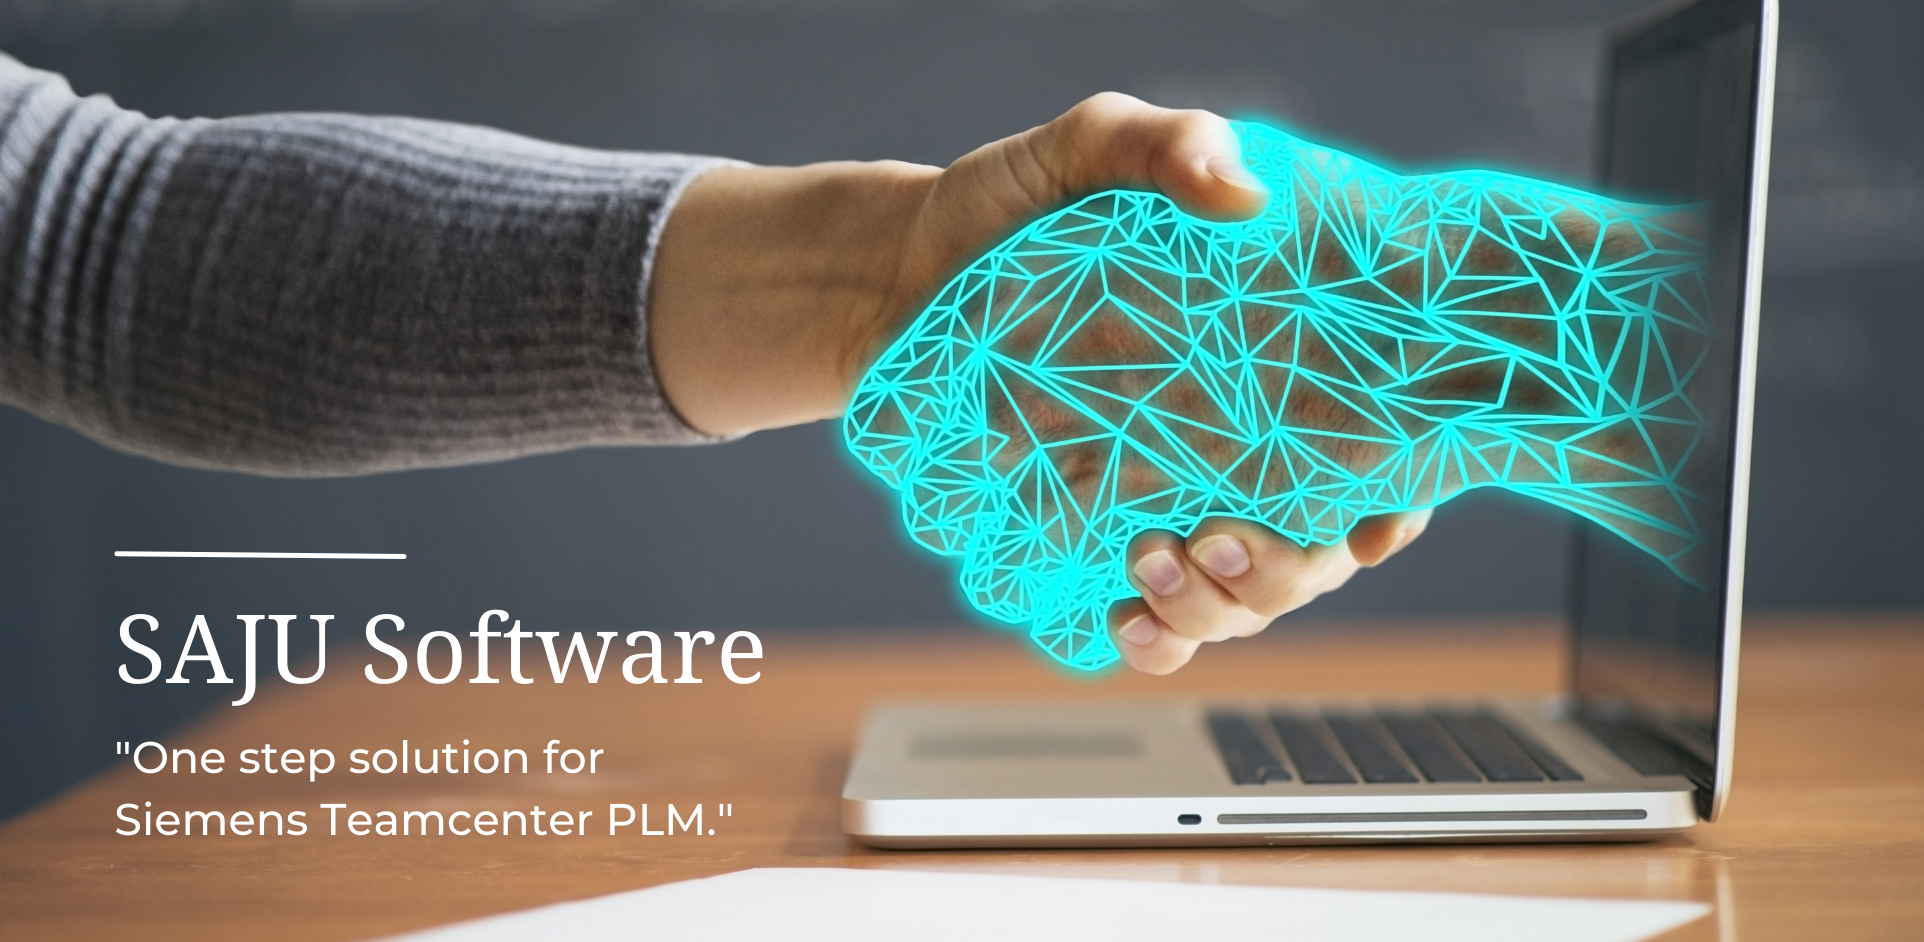
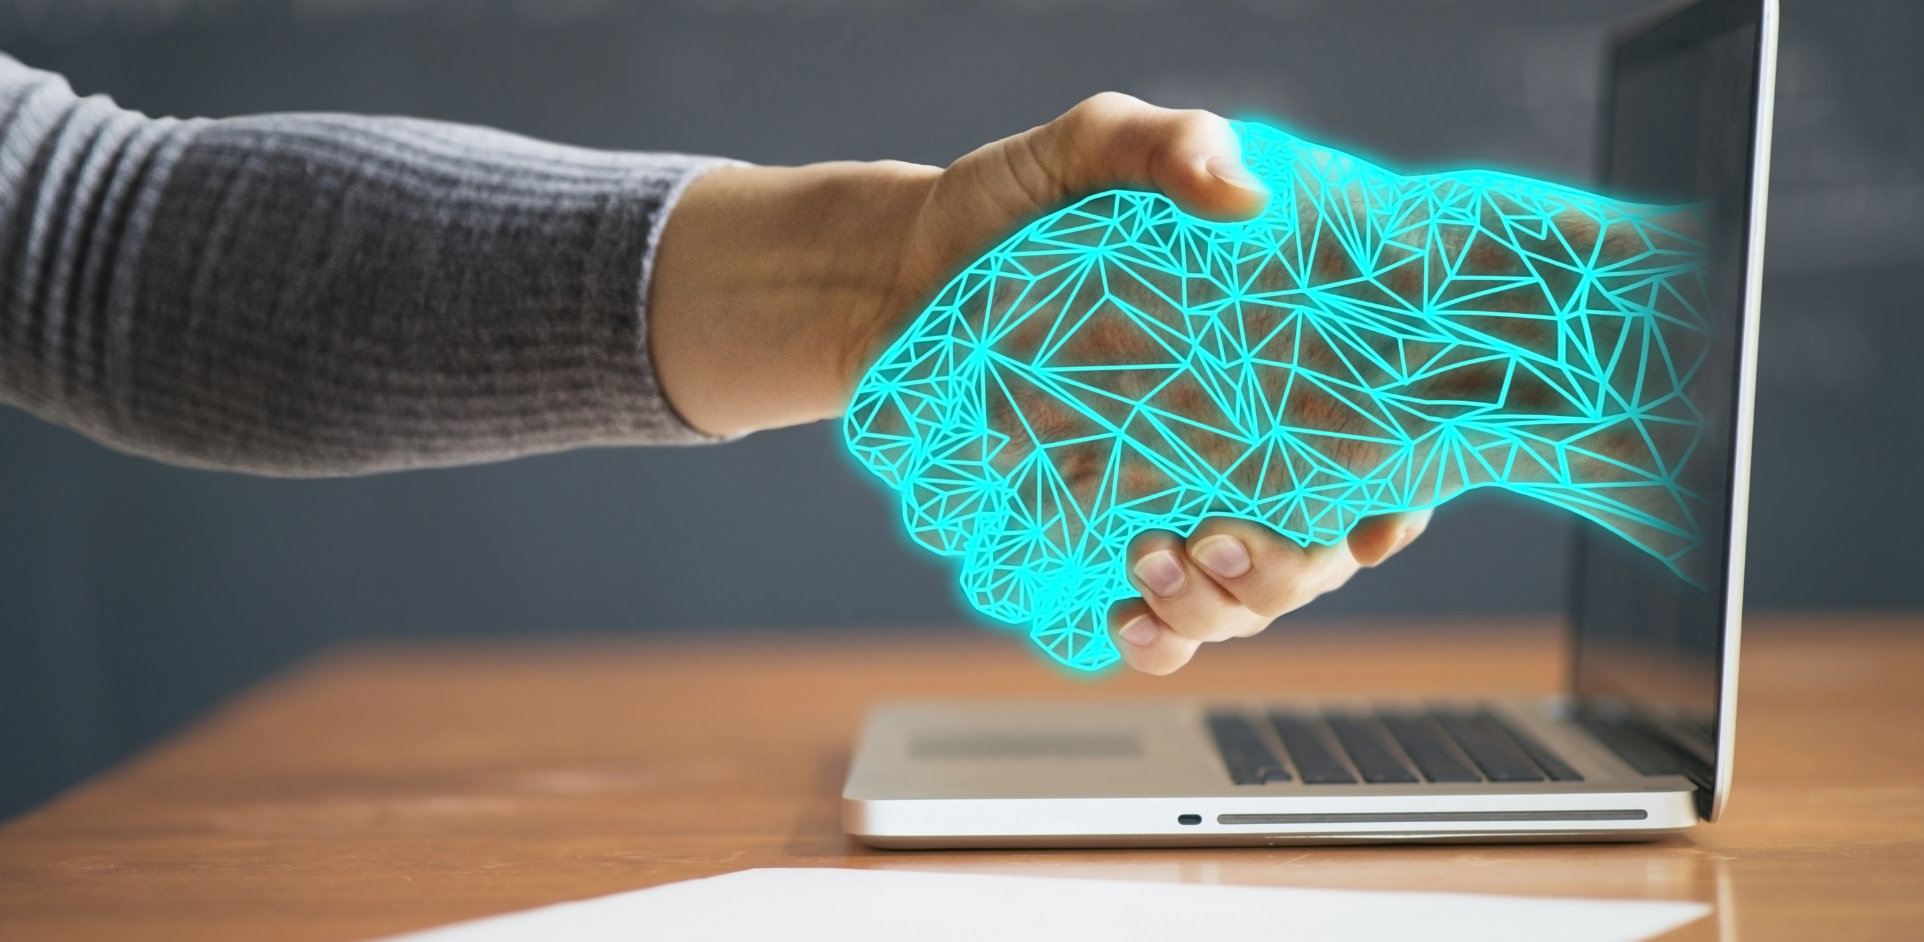
Localization POC
Localization POC + Changes in banner image

diff --git a/index.html b/index.html
@@ -32,10 +32,10 @@
 		<header class="header fixed clearfix navbar navbar-fixed-top">
 			<div class="container">
 				<div class="row">
-					<div class="col-md-4">
+					<div class="col-md-2">
 
 						<!-- header-left start --> 
-						<div class="header-left">
+						<div>
 
 							<!-- logo -->
 							<div class="logo-section smooth-scroll">
@@ -46,10 +46,10 @@
 						<!-- header-left end -->
 
 					</div>
-					<div class="col-md-8">
+					<div class="col-md-10">
 
 						<!-- header-right start --> 
-						<div class="header-right">
+						<div>
 
 							<!-- main-navigation start --> 
 							<div class="main-navigation animated">
@@ -70,13 +70,21 @@
 
 										<!-- Collect the nav links, forms, and other content for toggling -->
 										<div class="collapse navbar-collapse scrollspy smooth-scroll" id="navbar-collapse-1">
-											<ul class="nav navbar-nav navbar-right">
+											<ul class="nav navbar-nav ">
 												<li class="active"><a href="#banner">Home</a></li>
 												<li><a href="#services">We Offer</a></li>
 												<li><a href="#about">About Us</a></li>												
 												<li><a href="#team">Our Team</a></li>
 												<li><a href="#clients">Our Clients</a></li>
 												<li><a href="#contact">Contact Us</a></li>
+												<li>													
+													<a>
+														<select id="languageSwitcher">
+															<option value="en" class="options">En</option>
+															<option value="de" class="options">De</option>
+														</select>
+													</a>
+												</li>
 											</ul>
 										</div>
 
@@ -99,6 +107,16 @@
 		<!-- banner start --> 
 		<div id="banner" class="banner">
 			<div class="banner-image"></div>
+			<div class="banner-caption">
+				<div class="container">
+					<div class="row">					 
+						<div class="caption-data" style="margin-top: 0px; opacity: 1;" data-animation-effect="fadeIn">
+								<h1>Saju Software</h1>
+								<h3 class="padding-top30">Your trusted partner in PLM solutions.</h3>
+							</div>
+					</div>
+				</div>
+			</div>
 		</div>
 		<!-- banner end -->
 
@@ -107,7 +125,7 @@
 			<div class="container">
 				<div class="row " style="margin-top: 0px;">
 					<div class="col-sm-12">
-						<h2>welcome to <strong><span> SAJU Software </span> </strong> - Your Partner in PLM Solutions</h2>
+						<h2>Welcome to <strong><span> SAJU Software </span> </strong> - Your Trusted Partner in PLM Solutions</h2>
 						<p>
 							Our mission is to empower your firm with the necessary tools, services and best practices to boost productivity,drive innovation, and achieve prosperity in today's rapidly changing digital landscape.
 						</p>
@@ -120,7 +138,7 @@
 		<!-- What we offer section start --> 
 		<section class="section transprant-bg pclear secPadding">
 			<div class="container no-view" data-animation-effect="fadeIn">
-				<h1 id="services" class="title text-center">What we offer</h1>
+				<h1 id="services" class="title text-center" data-translate="services_title">What We Offer</h1>
 				<div class="space"></div>
 				<div class="row">
 					<div class="col-md-4">
@@ -591,6 +609,7 @@
 
 		<!-- Custom Scripts -->
 		<script type="text/javascript" src="js/custom.js" defer></script>
+		<script type="text/javascript" src="js/translator.js"></script>
 
 		<!-- Contact Us Form -->
 		<script>

diff --git a/js/translator.js b/js/translator.js
@@ -1,0 +1,39 @@
+const translations = {};
+
+// Function to load translation JSON file
+function loadTranslations(lang) {
+    fetch(`lang/${lang}.json`)
+    .then(response => response.json())
+    .then(data => {
+      translations[lang] = data;
+      translatePage(lang);
+    })
+    .catch(error => console.error("Error loading translations:", error));
+}
+
+// Function to apply translations to the page
+function translatePage(lang) {
+  document.querySelectorAll("[data-translate]").forEach(el => {
+    const key = el.getAttribute("data-translate");
+    if (translations[lang] && translations[lang][key]) {
+      el.textContent = translations[lang][key];
+    }
+  });
+}
+
+// Change language when the user selects a different option
+document.getElementById("languageSwitcher").addEventListener("change", (event) => {
+  const lang = event.target.value;
+  if (!translations[lang]) {
+    loadTranslations(lang); // Load translations if not already loaded
+  } else {
+    translatePage(lang);
+  }
+});
+
+// Load default language (English)
+window.onload = () => {
+  const defaultLang = "en";
+  loadTranslations(defaultLang);
+  document.getElementById("languageSwitcher").value = defaultLang;
+};

diff --git a/css/style.css b/css/style.css
@@ -143,7 +143,7 @@ blockquote {
 }
 .banner-caption {
 	position: absolute;
-	top: 54%;
+	top: 70%;
 	width: 100%;
 	z-index: 2;
 	left: 0px;
@@ -1025,5 +1025,12 @@ border-radius: 50%;
     #clients .client-logo {
         padding: 30px;  /* Reduced padding for smaller screens */
     }
+}
+
+#language-switcher {
+	width: auto;
+	margin-top: 8px;
+	background-color: transparent;
+	border: none;
 }
  
